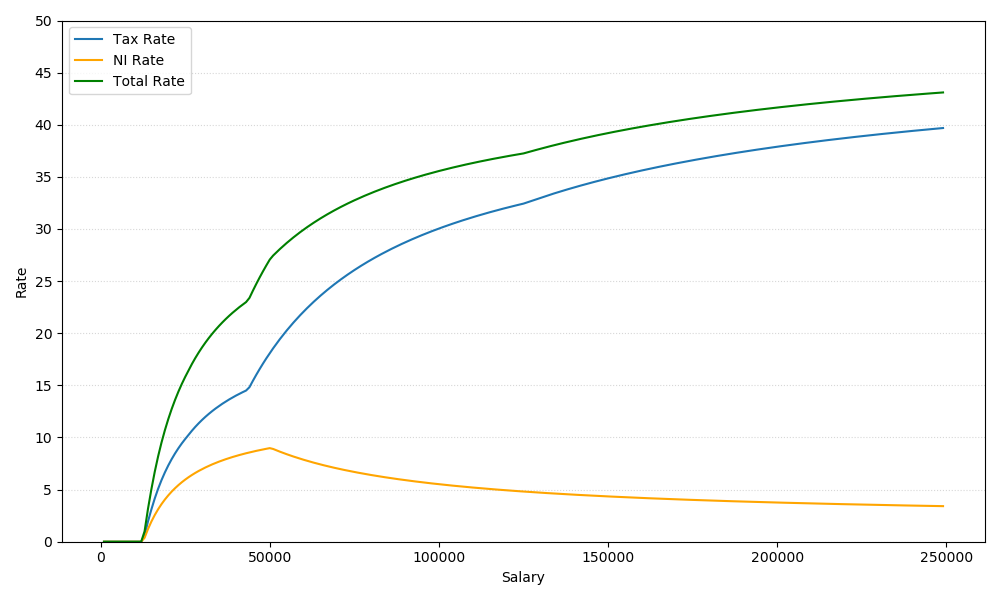
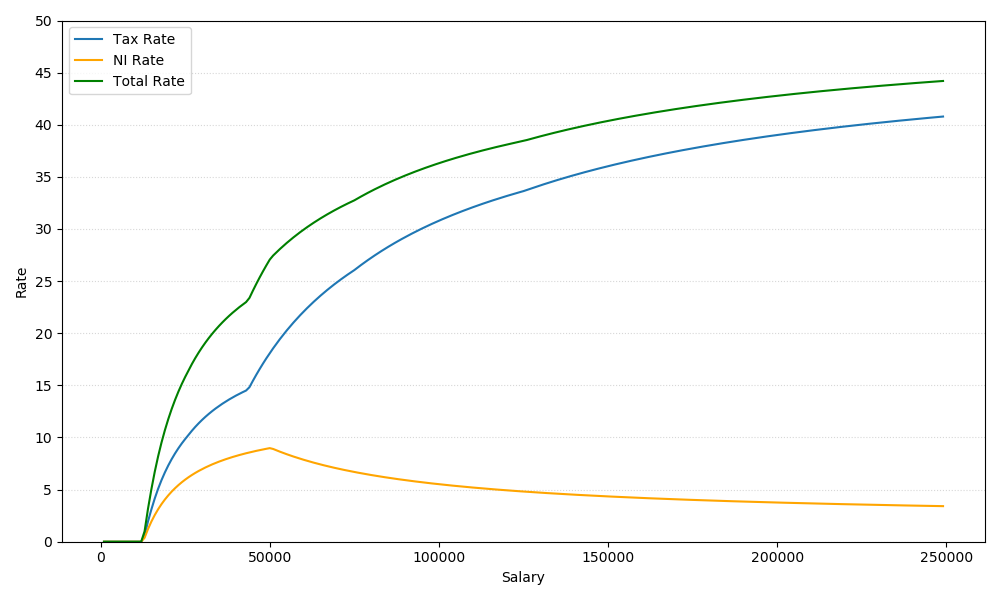
Dec 2023 rates

Changed region(s): [[0.403, 0.12, 0.93, 0.36], [0.341, 0.36, 0.465, 0.45], [0.341, 0.3, 0.403, 0.33]]

diff --git a/scottish-tax.py b/scottish-tax.py
@@ -26,8 +26,9 @@ def main():
         TaxBand(12571, 14733, 0.19),            # basic_rate_threshold
         TaxBand(14733, 25689, 0.20),            # intermediate_rate_threshold
         TaxBand(25689, 43633, 0.21),            # higher_rate_threshold
-        TaxBand(43633, 125140, 0.42),           # top_rate_threshold
-        TaxBand(125140, float('inf'), 0.47)     # additional_rate_threshold
+        TaxBand(43633, 75000, 0.42),            # top_rate_threshold
+        TaxBand(75000, 125140, 0.45),           # top_rate_2_threshold
+        TaxBand(125140, float('inf'), 0.48)     # additional_rate_threshold
     ]
 
     pa_reduction_threshold = 100000

diff --git a/README.md b/README.md
@@ -1,2 +1,2 @@
-# Scottish Tax Rates December 2022
+# Scottish Tax Rates December 2023
 ![Tax Rates Plotted](scottish-tax.png)
